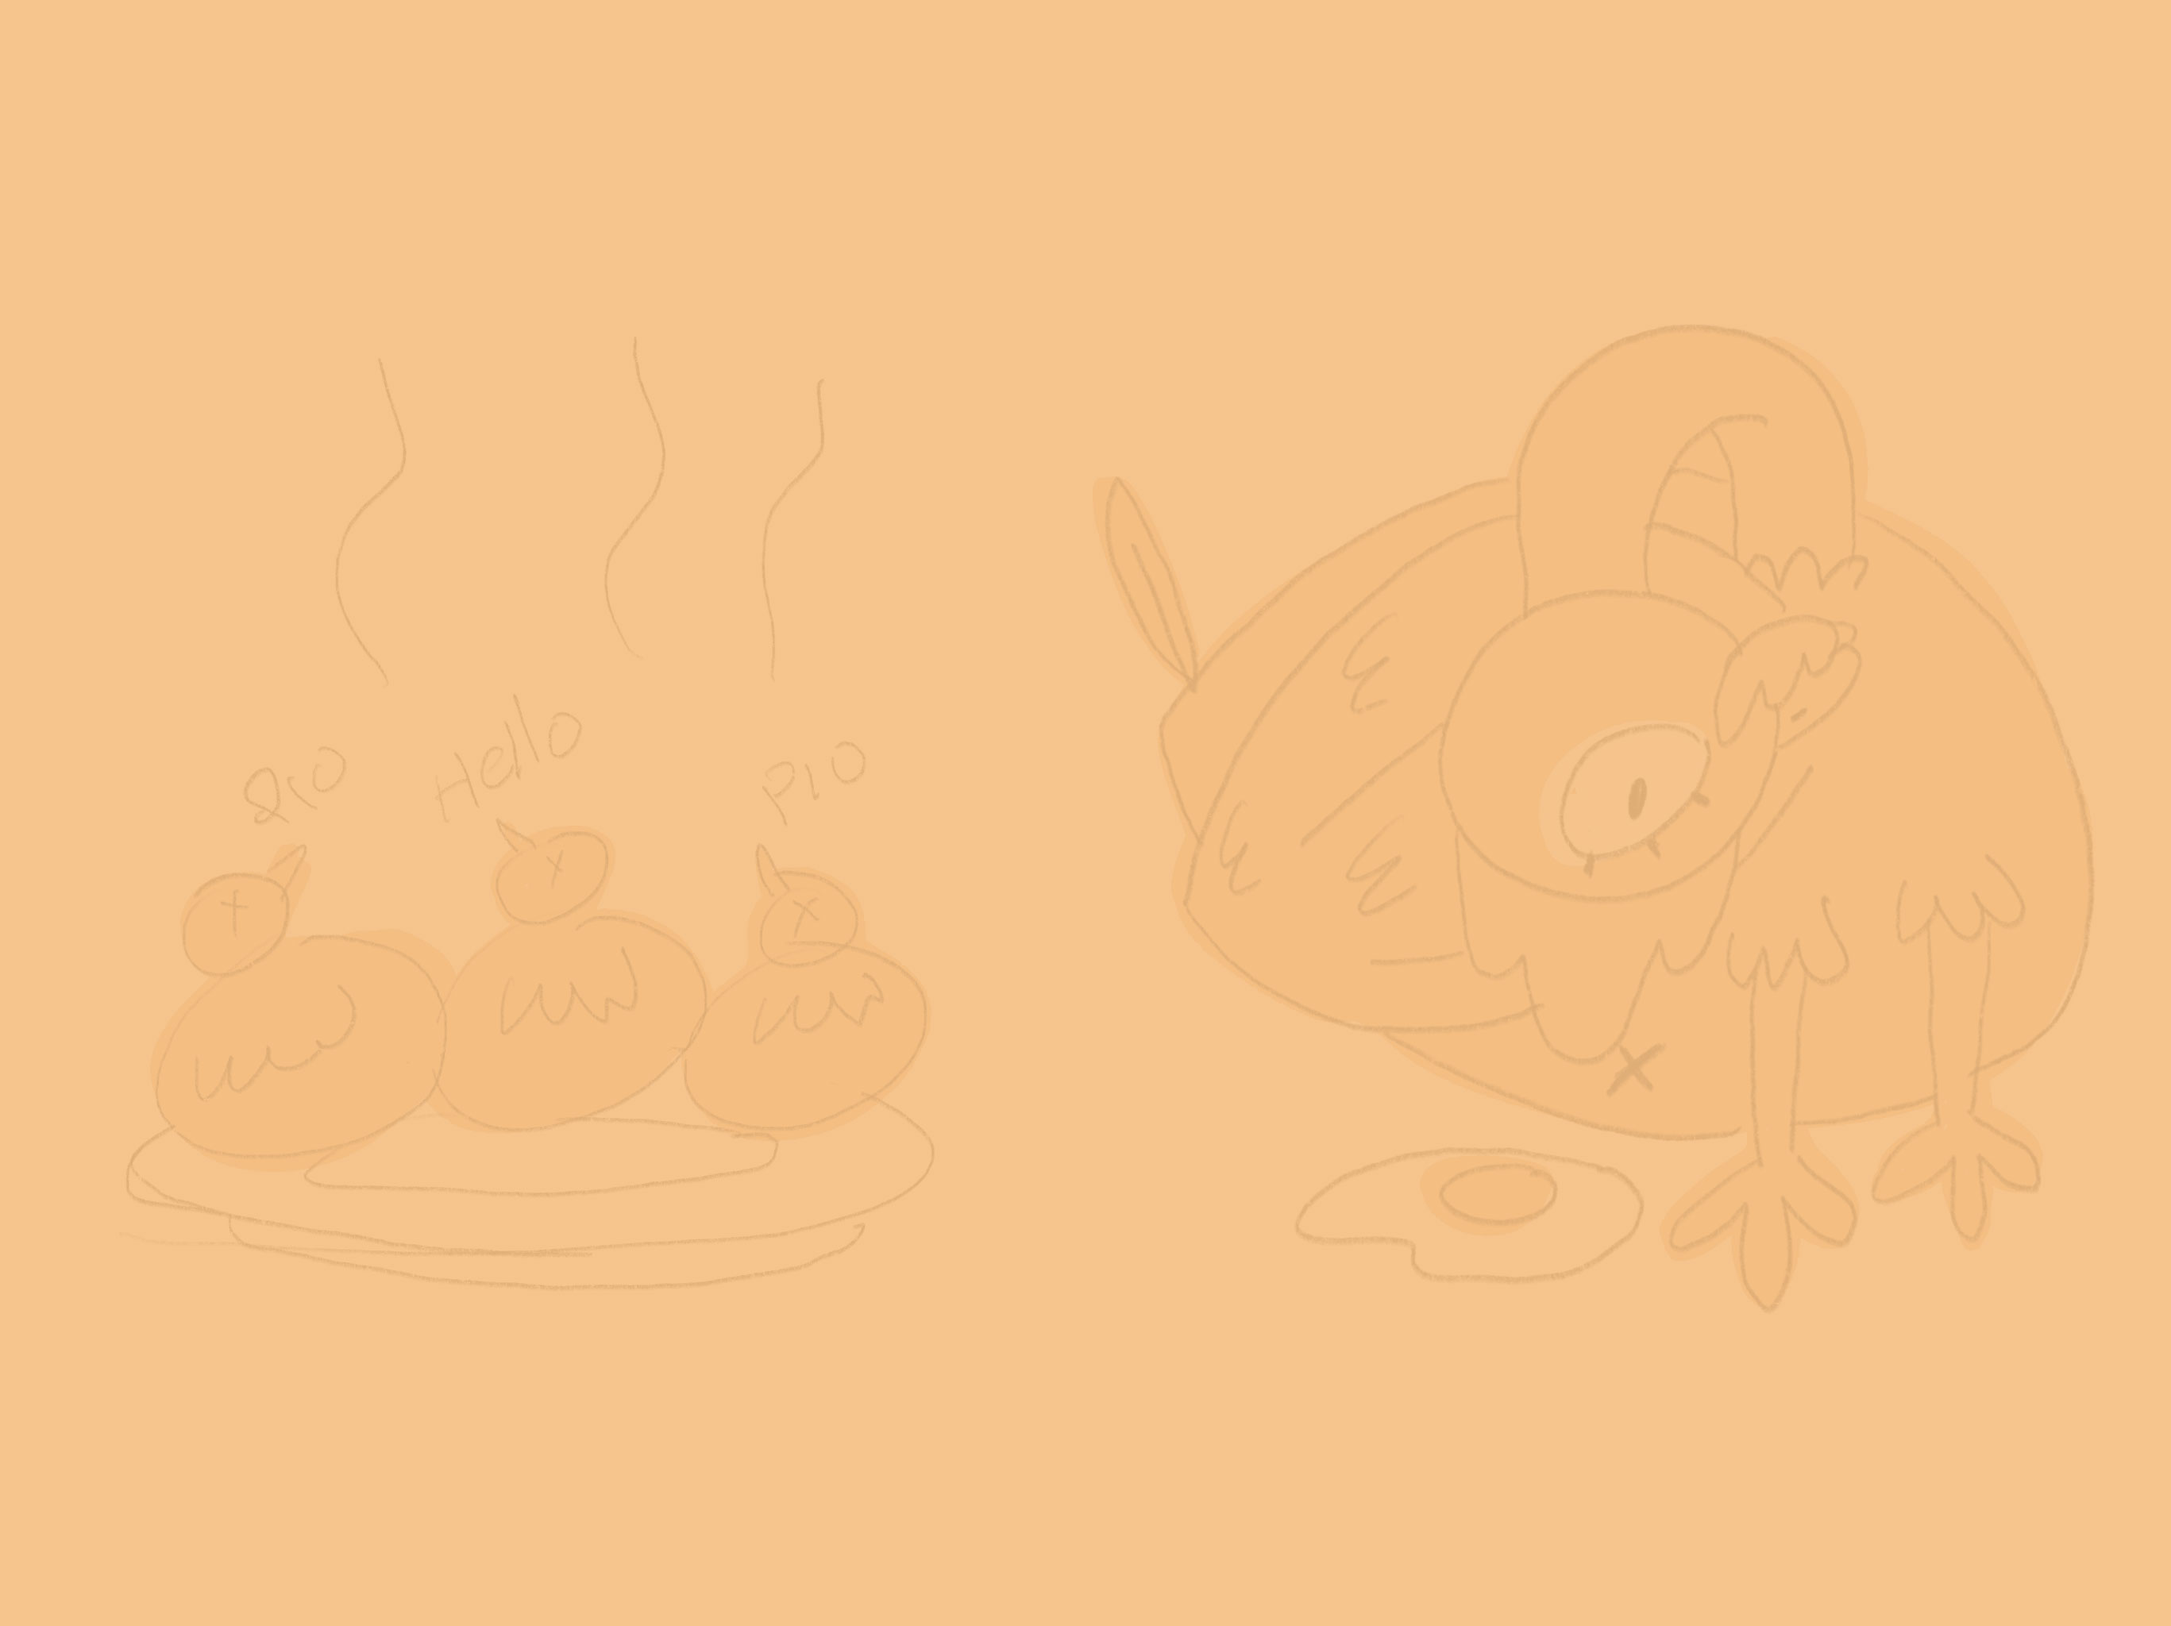
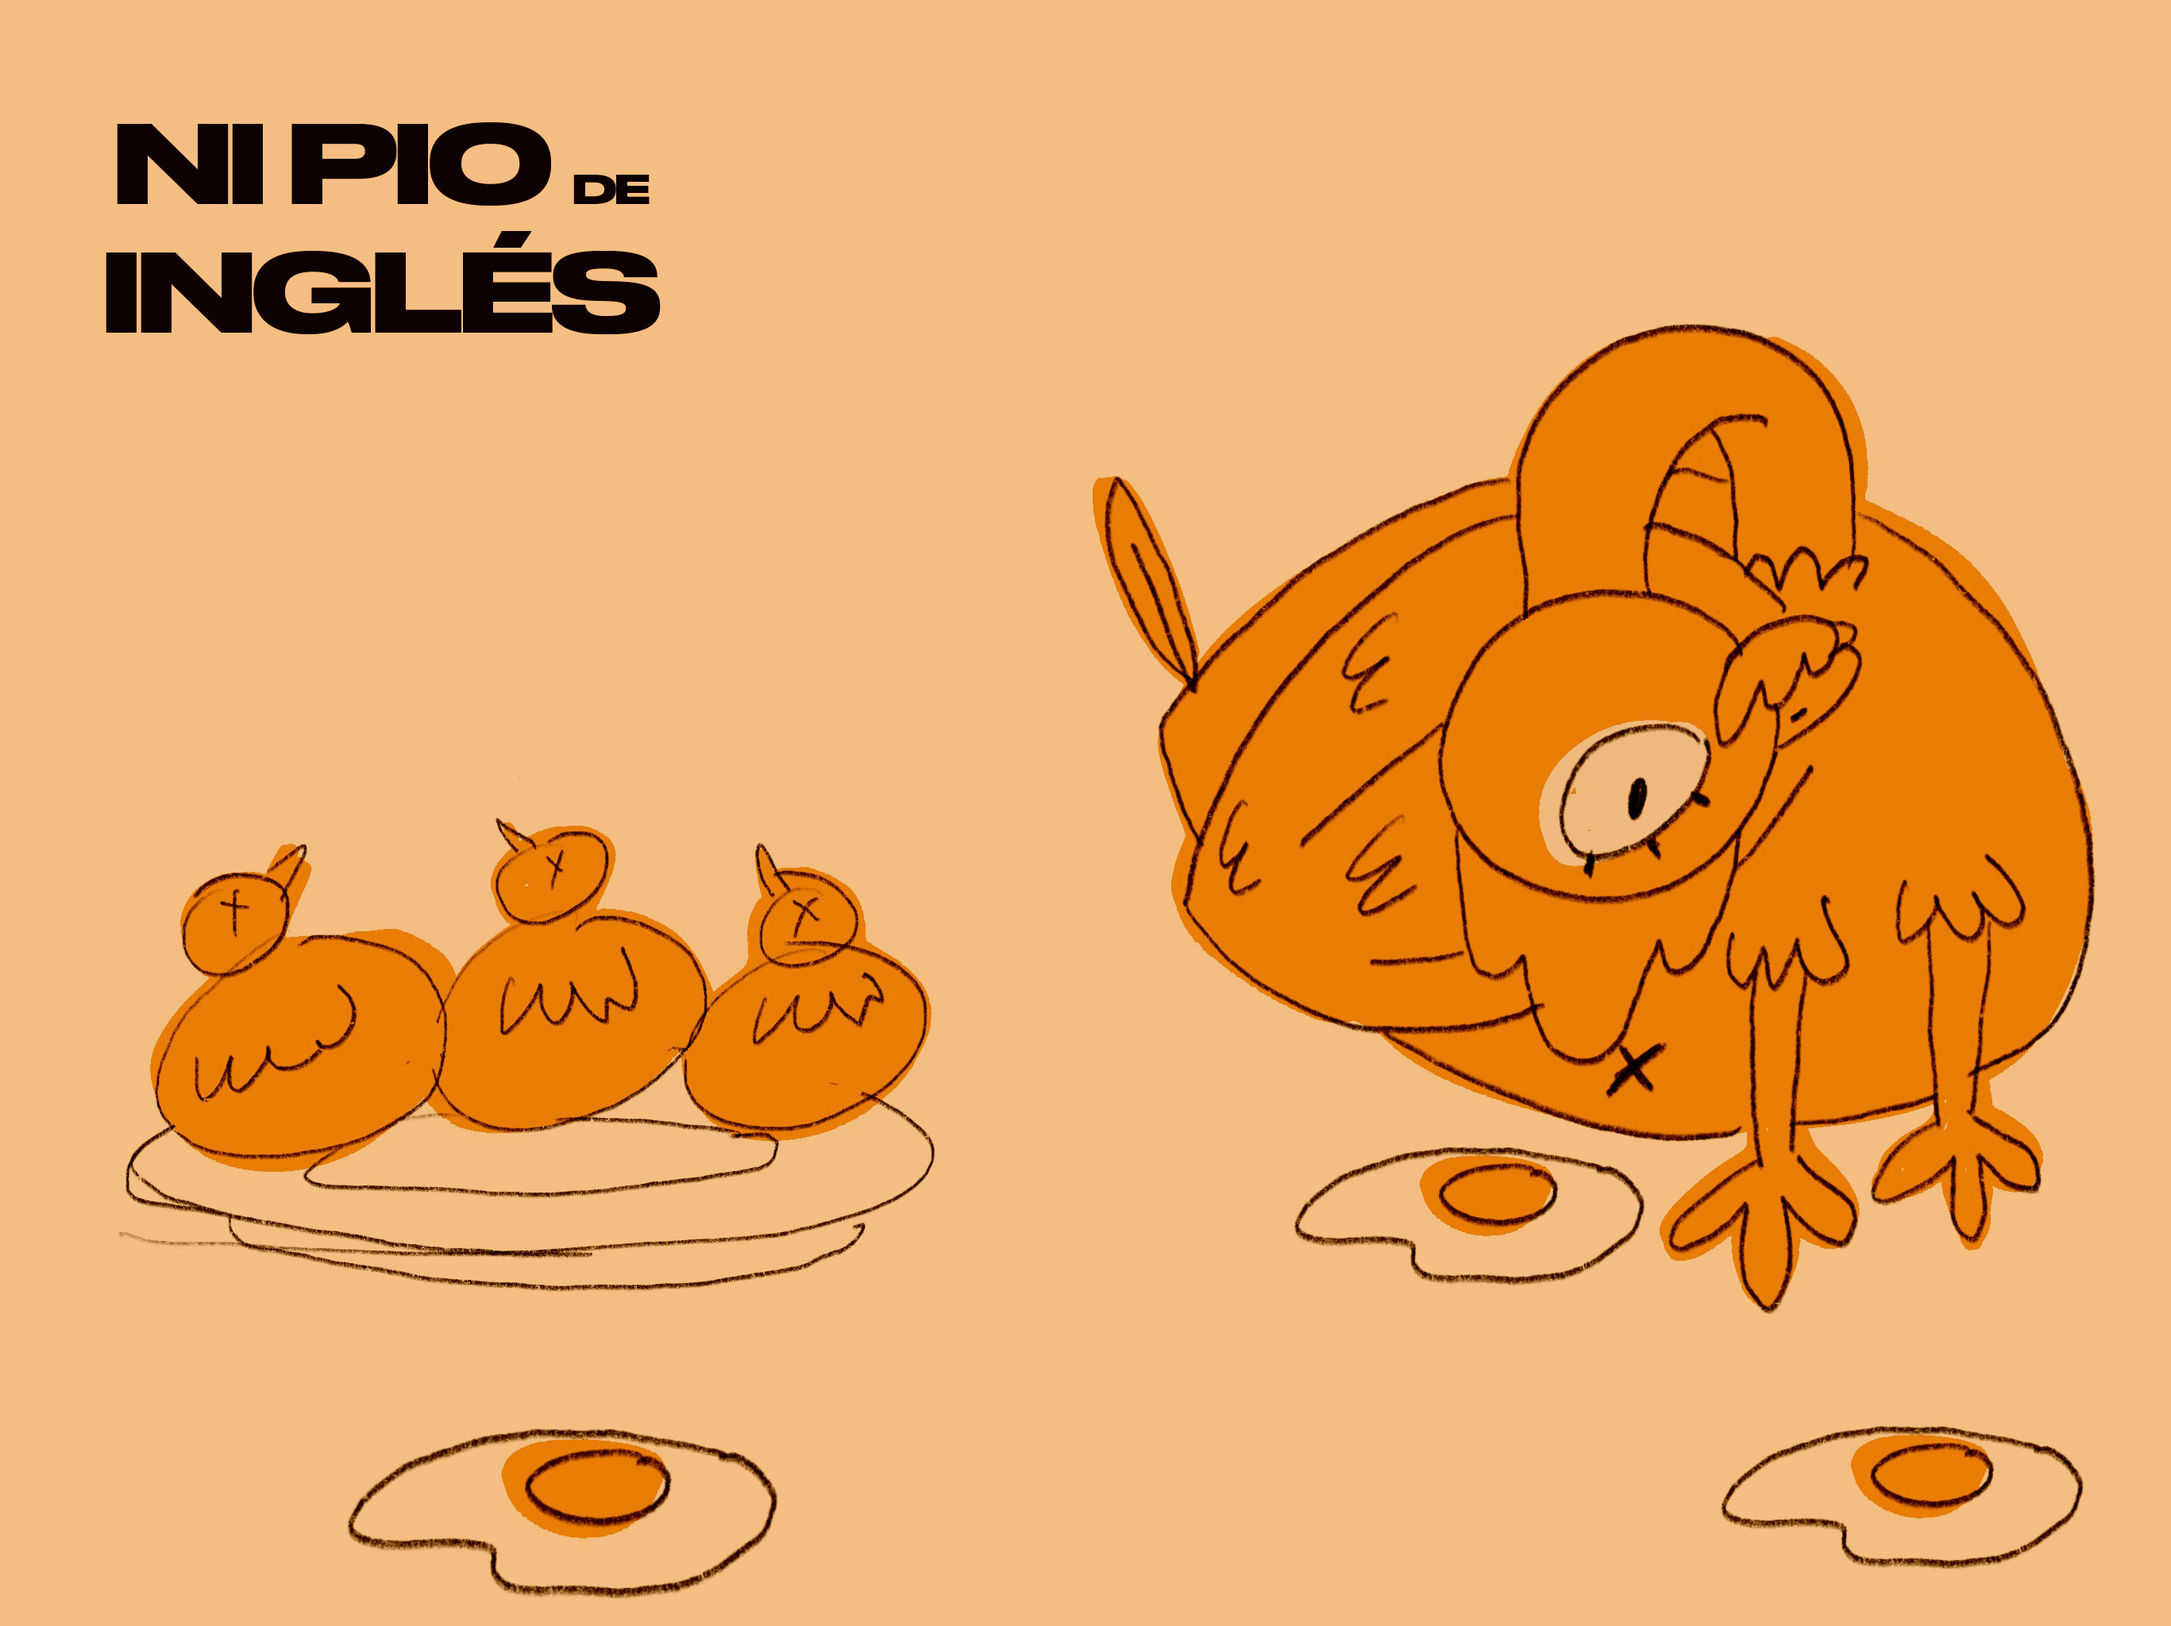
actualizacion mobile about me

diff --git a/pages/about_me.html b/pages/about_me.html
@@ -69,7 +69,7 @@
     <main>
         <!-- SECCION 1 -->
         <section class="SECCION container">
-            <div class="w-100 h-100 row d-flex align-items-center justify-content-center py-5">
+            <div class="h-100 row d-flex align-items-center justify-content-center py-5">
 
                 <!-- TEXTOS -->
                 <div class="texto-seccion-1_aboutMe col-12 col-sm-12 col-md-6 col-lg-6 d-flex row align-items-center justify-content-center paddingTexto"> 
@@ -77,20 +77,26 @@
                         <!-- textos -->
                         <div>
                             <h2>about me</h2>
-                            <p class="parrafo">Estas son solo algunas palabras que me definen: Arroz, diseño, gatos, salsa, universo, ejercicio, tranquilidad, amigable, empático, hablar, huevo, fiesta, soledad, web, ciencia, familia, tiempo, responsabilidad. ¿Notaste que el inglés no esta?</p>
+                            <p class="pt-3">Estas son solo algunas palabras que me definen: Arroz, diseño, gatos, salsa, universo, ejercicio, tranquilidad, amigable, empático, hablar, huevo, fiesta, soledad, web, ciencia, familia, tiempo, responsabilidad. <span>¿Notaste que el inglés no esta?</span></p>
                         </div>
-                
-                        <!-- redes sociales -->
-                        <div class="redesSociles_internas">
-                            <a href="https://www.linkedin.com/in/javier-diaz-carre%C3%B1o-794b9a217/">
-                                <iconify-icon icon="mdi:linkedin"></iconify-icon></a>
-                
-                            <a href="https://www.instagram.com/javi_sketches/">
-                                <iconify-icon icon="mdi:instagram"></iconify-icon></a>
-                
-                            <a href="https://www.behance.net/JAVIERDIAZCARRENO">
-                                <iconify-icon icon="ant-design:behance-circle-filled"></iconify-icon></a>
+
+                        <div>
+                            <p class="py-5">conoce más de mi:</p>
+                            <!-- redes sociales -->
+                            <div class="redesSociles_internas">
+                                <a href="https://www.linkedin.com/in/javier-diaz-carre%C3%B1o-794b9a217/">
+                                    <iconify-icon icon="mdi:linkedin"></iconify-icon></a>
+                    
+                                <a href="https://www.instagram.com/javi_sketches/">
+                                    <iconify-icon icon="mdi:instagram"></iconify-icon></a>
+                    
+                                <a href="https://www.behance.net/JAVIERDIAZCARRENO">
+                                    <iconify-icon icon="ant-design:behance-circle-filled"></iconify-icon></a>
+                            </div>
+
                         </div>
+
+                        
                      </div>
                 
                 </div>
@@ -106,36 +112,43 @@
         </section>
 
         <!-- SECCION 2 -->
-        <section class="container-fluid fondoClaro py-5">
-          
-            <div class="SECCION container">
+        <section class="container-fluid fondoClaro">
+            <div class="container SECCION">
 
-                <div class="row h-100 w-100 d-flex align-items-center justify-content-center">
-
+                <div class="h-100 row d-flex justify-content-center align-items-center">
                     <!-- IMAGEN -->
-                    <div class="img-seccion-2_aboutMe col-sm-12 col-md-6 col-lg-6">
-                        <img class="img-fluid" src="../assets/img/metas about me.png" alt="montaña con una bandera en la cima">
-                    </div>               
-                    
-                    <!-- TEXTOS -->
-                    <div class="texto-seccion-2_aboutMe col-12 col-sm-12 col-md-6 col-lg-6 px-5">
-                        <h2>metas</h2>
-                        <ul class="parrafo">
-                            <li><p>Estudiar inglés en una escuela.</p></li>
-                            <li><p>Conocer personas que hablen el idioma.</p></li>
-                            <li><p>Entender el idioma en 2 años.</p></li>
-                            <li><p>Conseguir un trabajo con nativos en inglés.</p></li>
-                            <li><p>Casarme con una gringa para tener papeles (jajajaja).</p></li>
-                        </ul>
-
-                        <div><a class="boton enlace" href="./progress.html">VER MI PROGRESS</a></div>
-                   
+                    <div class="h-50 text-center col-sm-12 col-lg-6 d-flex align-items-center">
+                        <div class="img-seccion-2_aboutMe">
+                            <img class="img-propio" src="../assets/img/metas about me.png" alt="montaña con una bandera en la cima">
+                        </div> 
                     </div>
 
-                 </div>
+                    <!-- TITULOS -->
+                    <div class="h-50 d-flex flex-column justify-content-center alinear-nobs col-sm-12 col-lg-6 pb-4 padding-titulos-aboutMe">
+                        <!-- TEXTOS -->
+                        <div class="text-center-propio">
+                            <h2>metas</h2>
+                            <p class="pt-3">Estas son algunas metas que me he propuesto en 2 años, de los cuales ya llevo 8 meses, para aprender inglés</p>
+                        </div>
+                        
+                        <!-- LISTA -->
+                        <div>
+                            <ul class="parrafo">
+                                <li><p>Entender el inglés.</p></li>
+                                <li><p>Conocer nativos.</p></li>
+                                <li><p>Conseguir un trabajo en mi carrera.</p></li>
+                                <li><p>Casarme con una gringa para tener papeles 😂</p></li>
+                            </ul>
+                        </div>
+                        <div><a class="boton enlace" href="./progress.html">VER MI PROGRESS</a></div>
+                        
+                    </div> 
+                     
+                </div>
+                
+            
 
-             </div>
-
+            </div>
         </section>
 
     </main>

diff --git a/css/estilos.css b/css/estilos.css
@@ -33,6 +33,17 @@ span{font-weight: 600;
 .fondoClaro{
   background-color: #fff1d9;
 }
+.text-center-propio{
+  text-align: left;
+}
+
+.img-propio{
+  width: 90%;
+}
+
+.alinear-nobs{
+ text-align: left;
+}
 
 /* ---------------PAGINA 404 -------------*/
 .error404{
@@ -50,7 +61,7 @@ span{font-weight: 600;
 }
 
 .paddingTexto{
-  padding-right: 80px;
+  padding-right: 5rem;
 }
 
 /* BOTONES */
@@ -61,7 +72,7 @@ span{font-weight: 600;
 
 .boton {
     background-color: #0f0e0e;
-    padding: 30px 110px;
+    padding: 2rem 7rem;
     border-radius: 5px;
     text-align: center;
     color: #fff1d9;
@@ -90,12 +101,14 @@ span{font-weight: 600;
   background-position-y: 55%;
   background-position-x: 80%;
   text-align: center;
-  
   height: 100vh;
  }
 .titulo-portada_aboutMe{
   padding-right: 20%;
   padding-top: 10%;
+}
+.padding-titulos-aboutMe{
+  padding: 0 4rem;
 }
  .h1_aboutMe{
   width: 30vw;
@@ -128,16 +141,11 @@ span{font-weight: 600;
   background-color: #516bff;
  }
 
- .divisor-horizontal{
-  border-bottom: 2px solid #dcdcdc;
-  width: 100%;
-  margin: 80px 0;
- }
  .color-1-divisor_podcast{
-  background-color: #f4f4f4;
+  background-color: #e6e6e6;
  }
  .color-2-divisor_podcast{
-  background-color: #e6e6e6;
+  background-color: #d0d0d0;
  }
  #comentarioPodcast{
  border-color: #52525200;
@@ -168,6 +176,9 @@ span{font-weight: 600;
 
  .titulo-portada_podcast{
   max-width: 50vw;
+  background-color: white;
+  border-radius: 15px 15px 15px 15px;
+  padding: 3rem;
  }
 .card_podcast{
   margin-bottom: 40px;
@@ -191,13 +202,13 @@ span{font-weight: 600;
   font-family:'Sora', sans-serif;
   border-radius: 5px;
   border-color: #0f0e0e00;
-  background-color: #c2c2c2;
-  color: #525252;   
+  background-color: #ffffff;
+  color: #8b8b8b;   
   font-weight:400;
   height: 70px;}
 
 #enviar_podcast:hover{
-     background-color:#d6d6d6;
+     background-color:#e3e3e3;
      border-radius: 5px;
      color: #525252;
 }
@@ -269,7 +280,7 @@ span{font-weight: 600;
  /*SECCION 1 */
  .seccion-1_home{
    height: 100vh;
-   background-image: url(../assets/img/fondo\ seccion\ 1\ HOME.png);
+   background-image: url(../assets/img/fondo\ seccion\ 1\ home.png);
    background-attachment: fixed;
    background-position: center;
    background-repeat: no-repeat;
@@ -476,6 +487,12 @@ span{font-weight: 600;
     height: 100VH;
   }
 
+  .alinear-nobs{
+    display: flex;
+    justify-content: center;
+    align-items: center;
+  }
+
    .botonActivo{
    border: initial;
    border-radius: initial;
@@ -485,6 +502,13 @@ span{font-weight: 600;
     padding-top: 20px;
     padding-bottom: 45PX;
  }
+ .text-center-propio{
+  text-align: center;
+ }
+
+ .img-propio{
+  width: 100%;
+}
 
    /* BANNER PRINCIPAL */
    .titulo_portada_home{
@@ -642,6 +666,9 @@ padding-top: 10px;
  .titulo-portada_aboutMe{
   padding-right: 0;
   padding-top: 110%;
+}
+.padding-titulos-aboutMe{
+  padding: 0 1rem;
 }
 
  .h1_aboutMe{

diff --git a/index.html b/index.html
@@ -57,9 +57,9 @@
                     <!-- BANNER PRINCIPAL -->
                     <section class="container d-flex SECCION align-items-center">
 
-                        <div class="row">
+                        <div class="row d-flex align-items-center">
                             <!-- TITULO -->
-                            <div class="tituloPortada_home col-12 col-sm-12 col-md-6 col-lg-6">
+                            <div class="tituloPortada_home col-sm-12 col-lg-6">
 
                                 <!-- TEXTOS -->
                                 <div class="paddingTexto">
@@ -73,8 +73,8 @@
                             </div>
                         
                             <!-- IMAGEN -->
-                            <div class="contenedor_imagen-portada_home col-12 col-sm-12 col-md-6 col-lg-6 d-flex align-items-center justify-content-center">
-                                    <img class="img-fluid" src="./assets/img/Home_portada.png" alt="ilustracion persona frustrada">
+                            <div class="contenedor_imagen-portada_home col-sm-12 col-lg-6 d-flex align-items-center justify-content-center">
+                                    <img class="img-fluid" src="./assets/img/home_portada.png" alt="ilustracion persona frustrada">
                             </div>
                         </div>
 
@@ -152,7 +152,7 @@
                             
                             <!-- IMAGEN --> 
                             <div class="contenedor_imagen-seccion-2_home col-12 col-sm-12 col-md-6 col-lg-6 d-flex justify-content-center">
-                                <img class="img-fluid" src="./assets/img/Seccion_2_Home.png" alt="ilustracion personaje pensativo">
+                                <img class="img-fluid" src="./assets/img/seccion_2_Home.png" alt="ilustracion personaje pensativo">
                             </div>      
                         </div>
                         

diff --git a/pages/podcast.html b/pages/podcast.html
@@ -58,7 +58,7 @@
                 <div class=" row h-100 w-100 d-flex align-items-center justify-content-center">
                     <div class="titulo-portada_podcast flex-column d-flex justify-content-center">
                     <p>podcast</p>
-                    <H1>ni pio de inglés</H1>
+                    <H1 class="pb-3">ni pio de inglés</H1>
                     <p>En este espacio hablo acerca de <span>mi experiencia viviendo en el extranjero sin saber nada de inglés,</span> cómo logro enterder a mis compañeros de trabajo solo con el contexto y expresiones no verbales, aunque al día de hoy ya puedo enterder más, la verdad es que no sabia ni pio de inglés cuando llegé.</p>
                     </div>
                 </div>

diff --git a/pages/progress.html b/pages/progress.html
@@ -92,10 +92,10 @@
               <div class="enCurso_progress">
                 <h3 class="pb-2">encurso</h3>
                 <ul class="">
-                  <li><p>Conocer nativos en el idioma.</p></li>
-                  <li><p>Trabajar con navitos.</p></li>
+                  <li><p><span>Conocer nativos en el idioma.</span></p></li>
+                  <li><p><span>Trabajar con navitos.</span></p></li>
                   <li><p>Empezar la escuela.</p></li>
-                  <li><p>Vivir en el extranjero.</p></li>
+                  <li><p><span>Vivir en el extranjero.</span></p></li>
                   <li><p>Enfocar el inglés a mi carrera.</p></li>
               </ul>
               </div>

diff --git a/pages/contact.html b/pages/contact.html
@@ -60,7 +60,7 @@
                         <!-- TEXTOS -->
                         <div>
                             <h1>¿alguna sugerencia para improve my English?</h1>
-                            <p class="parrafo">si tienes algun tip para mi con gusto lo recibire.</p>
+                            <p class="parrafo">si tienes algún tip para mi, con gusto lo recibiré.</p>
                         </div>
 
                         <!-- BOTON -->
